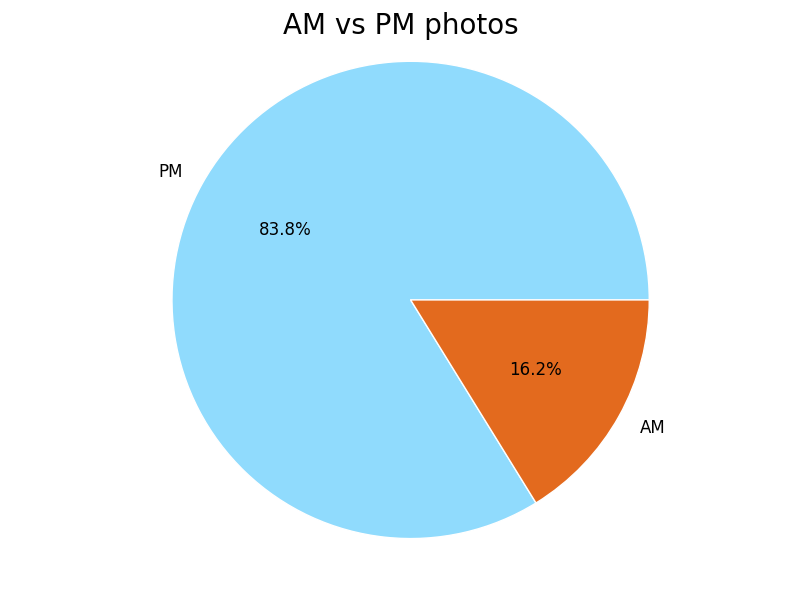
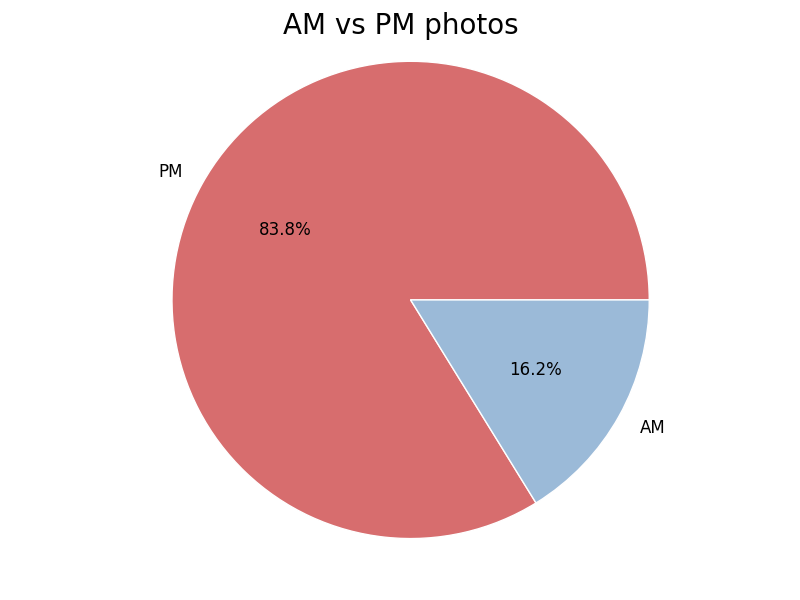
changed colors on the am vs pm chart

diff --git a/hours.py b/hours.py
@@ -27,7 +27,7 @@ count = Counter(time_csv)
 count = [ampm_split.count("PM"),ampm_split.count("AM")]
 plt.rcParams['patch.edgecolor'] = 'white' 
 labels = ['PM','AM']
-colors = ['#90DBFD', '#E36A1E']
+colors = ['#D76D6E','#9BBAD8']
 plt.pie(count, colors=colors, labels=labels, autopct='%1.1f%%')
 plt.axis('equal')
 plt.suptitle("AM vs PM photos", fontsize=20)
